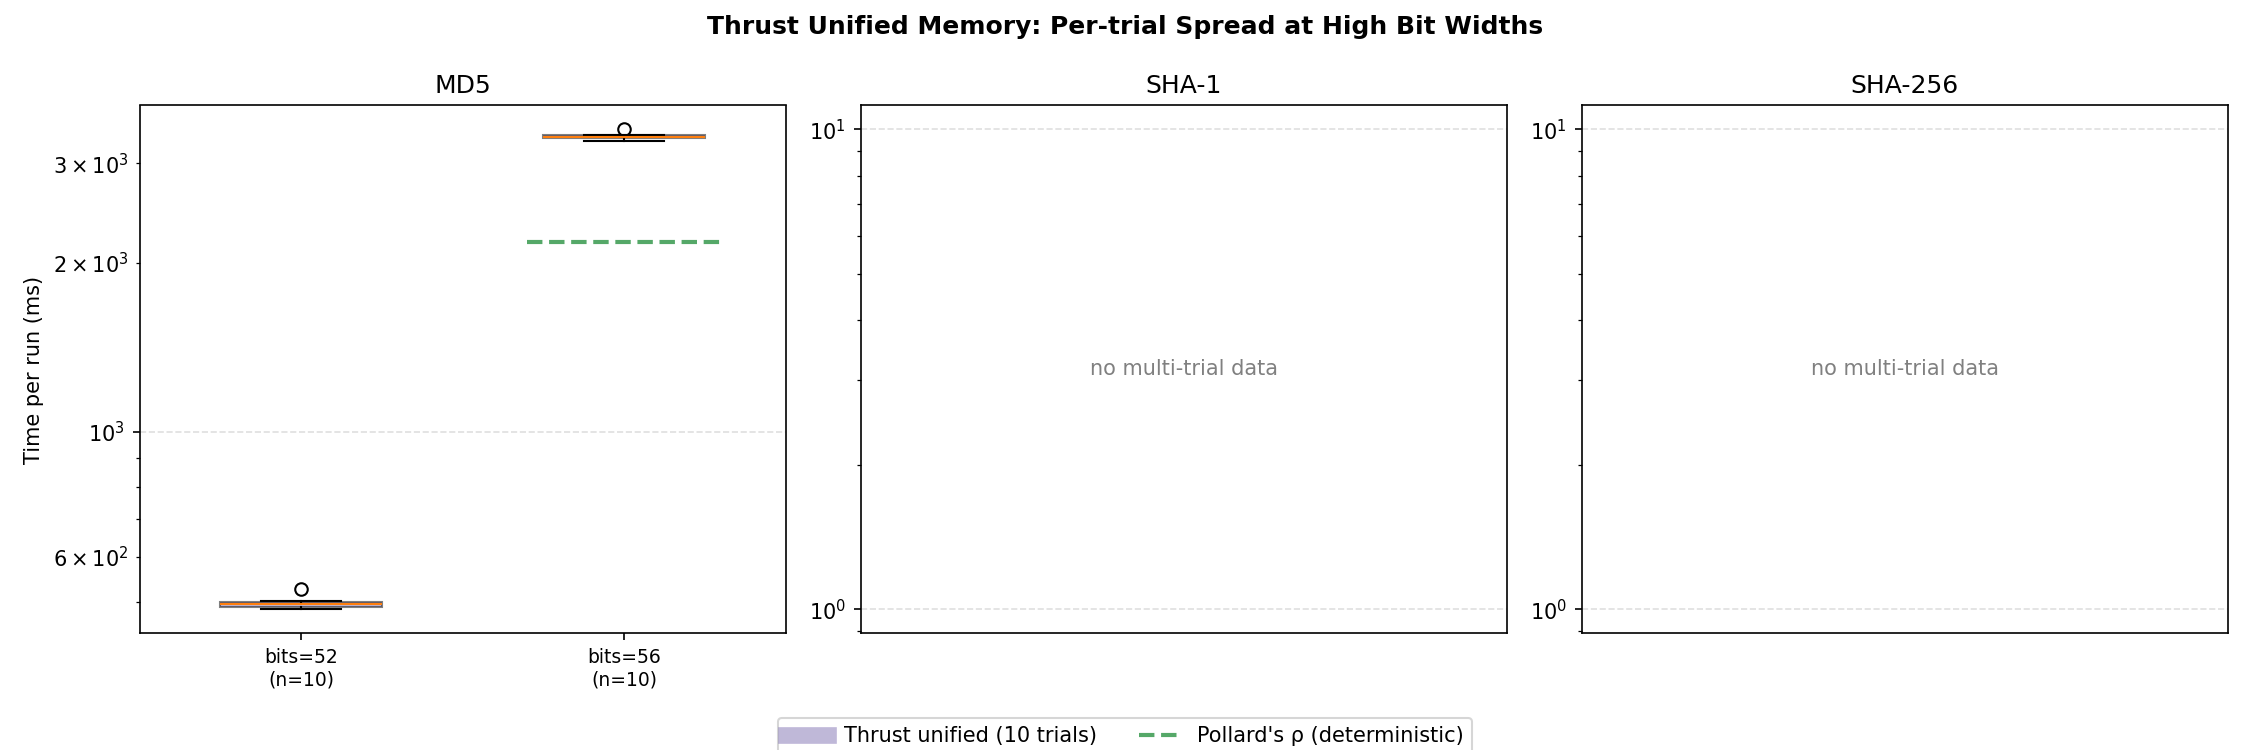
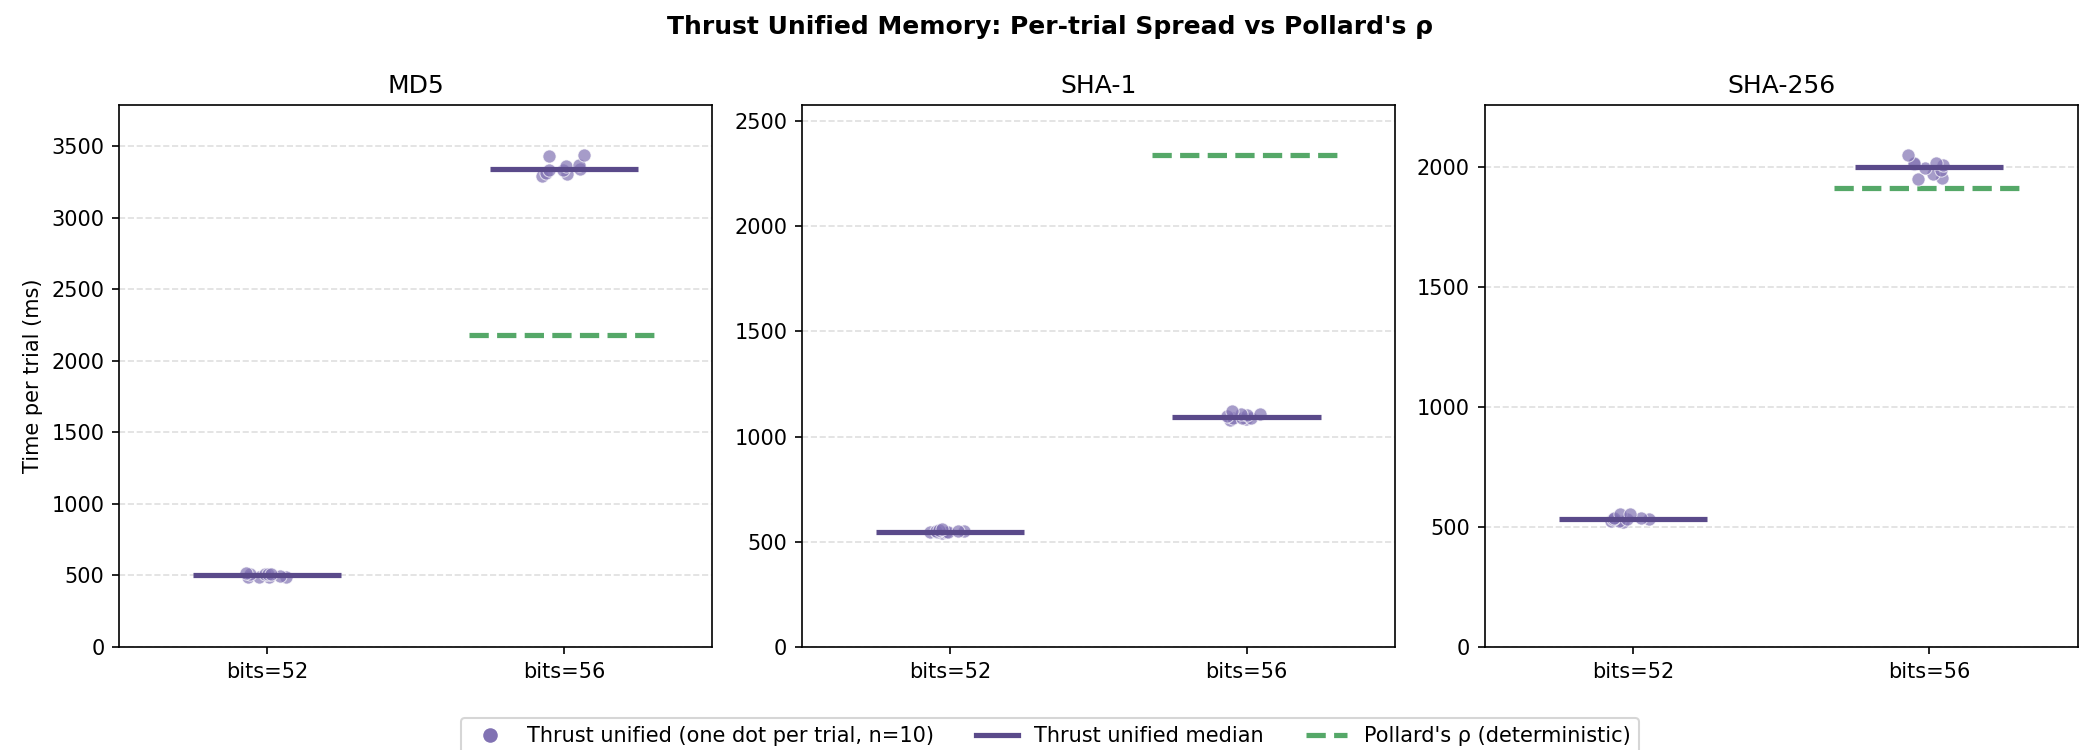
Redesign trial_spread as strip plot: jittered dots, median bar, Pollard reference line

diff --git a/Final/Scripts/task4/plot_final_task4.py b/Final/Scripts/task4/plot_final_task4.py
@@ -218,60 +218,79 @@ fig.savefig("Final/Data/task4/task4_overhead.png", dpi=150)
 print("Saved Final/Data/task4/task4_overhead.pdf")
 plt.close(fig)
 
-# ── Plot 3.5: per-trial spread at bits >= 52 (boxplot or strip) ──────────────
-# Visualizes retry-driven variance in unified-mode runs at borderline-VRAM
-# bit widths. Only plotted if multi-trial data is available.
-high_bits = [52, 56, 64]
+# ── Plot 3.5: per-trial spread at bits >= 52 ────────────────────────────────
+# Strip plot showing every individual trial as a dot, with the median drawn
+# as a horizontal bar and Pollard's ρ as a green reference line. Clearer than
+# a boxplot at n=10, and avoids log-scale boxplot distortion.
+import numpy as np
+import random
+
+high_bits = [52, 56]   # configs that ran multiple trials
 have_multi = any(t4_uni_raw.get(a, {}).get(b, {}).get('multi', False)
                  for a in algos for b in high_bits if b in t4_uni_raw.get(a, {}))
 
 if have_multi:
-    fig, axes = plt.subplots(1, 3, figsize=(15, 5), sharey=False)
-    fig.suptitle("Thrust Unified Memory: Per-trial Spread at High Bit Widths",
+    fig, axes = plt.subplots(1, 3, figsize=(14, 5), sharey=False)
+    fig.suptitle("Thrust Unified Memory: Per-trial Spread vs Pollard's ρ",
                  fontsize=12, fontweight="bold")
+
+    rng = random.Random(759)
 
     for ax, algo in zip(axes, algos):
         positions = []
-        data = []
-        labels_x = []
+        labels_x  = []
+        max_y = 0.0
+
         for b in high_bits:
             if b not in t4_uni_raw.get(algo, {}): continue
             ms_list = t4_uni_raw[algo][b]['ms_list']
             if len(ms_list) < 2: continue
-            positions.append(len(positions) + 1)
-            data.append(ms_list)
-            labels_x.append(f"bits={b}\n(n={len(ms_list)})")
+            xpos = len(positions) + 1
+            positions.append(xpos)
+            labels_x.append(f"bits={b}")
 
-        if data:
-            bp = ax.boxplot(data, positions=positions, widths=0.5,
-                            patch_artist=True, showfliers=True)
-            for patch in bp['boxes']:
-                patch.set_facecolor("#8172b3")
-                patch.set_alpha(0.5)
-            # Overlay Pollard's rho horizontal lines for comparison
-            for i, b in enumerate([b for b in high_bits if b in t4_uni_raw.get(algo, {})]):
-                if b in t3[algo] and len(t4_uni_raw[algo][b]['ms_list']) >= 2:
-                    ax.hlines(t3[algo][b], positions[i] - 0.3, positions[i] + 0.3,
-                              colors="#55a868", linestyles="--", linewidth=2)
+            # Jittered scatter of individual trials
+            jitter = [xpos + (rng.random() - 0.5) * 0.15 for _ in ms_list]
+            ax.scatter(jitter, ms_list, color="#8172b3", alpha=0.7,
+                       s=40, edgecolors="white", linewidths=0.5, zorder=3)
+
+            # Median bar
+            med = median(ms_list)
+            ax.hlines(med, xpos - 0.25, xpos + 0.25,
+                      colors="#5a4a8a", linewidths=2.5, zorder=4)
+
+            # Pollard's ρ reference (deterministic single-run time)
+            if b in t3.get(algo, {}):
+                ax.hlines(t3[algo][b], xpos - 0.32, xpos + 0.32,
+                          colors="#55a868", linestyles="--", linewidth=2.5,
+                          zorder=2)
+
+            max_y = max(max_y, max(ms_list), t3.get(algo, {}).get(b, 0))
 
         ax.set_title(labels[algo], fontsize=12)
         ax.set_xticks(positions)
-        ax.set_xticklabels(labels_x, fontsize=9)
-        ax.set_yscale("log")
+        ax.set_xticklabels(labels_x, fontsize=10)
+        ax.set_xlim(0.5, len(positions) + 0.5 if positions else 1)
+        ax.set_ylim(0, max_y * 1.1 if max_y > 0 else 1)
         ax.yaxis.grid(True, linestyle="--", alpha=0.4)
         ax.set_axisbelow(True)
         if not positions:
             ax.text(0.5, 0.5, "no multi-trial data", transform=ax.transAxes,
                     ha="center", va="center", fontsize=10, color="gray")
 
-    axes[0].set_ylabel("Time per run (ms)", fontsize=10)
-    # Single legend annotation
+    axes[0].set_ylabel("Time per trial (ms)", fontsize=10)
+
     from matplotlib.lines import Line2D
-    custom = [Line2D([0],[0], color="#8172b3", lw=8, alpha=0.5, label="Thrust unified (10 trials)"),
-              Line2D([0],[0], color="#55a868", linestyle="--", lw=2, label="Pollard's ρ (deterministic)")]
-    fig.legend(handles=custom, loc="lower center", ncol=2, fontsize=10,
+    custom = [
+        Line2D([0],[0], marker="o", color="w", markerfacecolor="#8172b3",
+               markersize=8, label="Thrust unified (one dot per trial, n=10)"),
+        Line2D([0],[0], color="#5a4a8a", lw=2.5, label="Thrust unified median"),
+        Line2D([0],[0], color="#55a868", linestyle="--", lw=2.5,
+               label="Pollard's ρ (deterministic)"),
+    ]
+    fig.legend(handles=custom, loc="lower center", ncol=3, fontsize=10,
                bbox_to_anchor=(0.5, -0.02))
-    fig.tight_layout(rect=[0, 0.05, 1, 1])
+    fig.tight_layout(rect=[0, 0.06, 1, 1])
     fig.savefig("Final/Data/task4/task4_trial_spread.pdf", dpi=150)
     fig.savefig("Final/Data/task4/task4_trial_spread.png", dpi=150)
     print("Saved Final/Data/task4/task4_trial_spread.pdf")